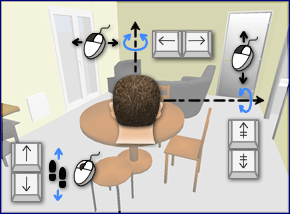
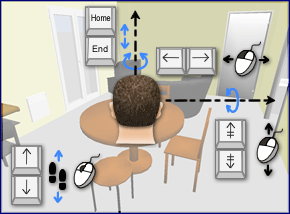
Added eyes elevation indicator
git-svn-id: https://svn.code.sf.net/p/sweethome3d/code/trunk@2312 03e323e1-6c6c-46a5-9f71-c4ce5d8c6204

diff --git a/com/eteks/sweethome3d/viewcontroller/resources/help/fr/editing3DView.html b/com/eteks/sweethome3d/viewcontroller/resources/help/fr/editing3DView.html
@@ -38,27 +38,37 @@
 	      <td>Visite virtuelle</td>
 	      </tr>
 	    </table>	 
-		<p>Quand la <i>Vue a&eacute;rienne</i> est s&eacute;lectionn&eacute;e, la vue 3D affiche votre logement en 3D vu de haut.
-		  Dans ce mode, le d&eacute;placement de la souris vers la gauche ou la droite en maintenant  son bouton
-		  gauche enfonc&eacute; fait tourner
-		  le logement autour d'un axe vertical positionn&eacute; au centre du logement&nbsp;; le d&eacute;placement de la souris
-		  en avant ou en arri&egrave;re en maintenant  son bouton gauche enfonc&eacute; fait tourner le logement
-		  autour d'un axe horizontal&nbsp;;
-	  la rotation de la roue de la souris permet de zoomer en avant ou en arri&egrave;re dans la vue 3D. <br>
-	  Quand la <i>Visite virtuelle</i> est s&eacute;lectionn&eacute;e, la vue 3D affiche votre logement en
-	  3D vue du point de vue d'un visiteur virtuel. Dans ce mode, le d&eacute;placement de la souris vers la gauche ou
-	  la droite  fait tourner le corps du visiteur vers la gauche ou la droite&nbsp;;
-	  le d&eacute;placement
-	  de la souris en avant ou en arri&egrave;re  fait tourner
-	  la t&ecirc;te du visteur vers le haut ou vers le bas&nbsp;; la rotation de la roue
-	  de la souris fait avancer ou reculer le visiteur.	  <br>
-		  Dans les deux modes, les touches <i>fl&egrave;che gauche</i> et <i>fl&egrave;che droite</i> ont le m&ecirc;me effet que les mouvements lat&eacute;raux de
-		  la souris ; les touches <i>page pr&eacute;c&eacute;dente</i> et <i>page suivante</i> ont le m&ecirc;me effet que les mouvements de la souris en avant
-		  ou en arri&egrave;re&nbsp;;
-	  les touches <i>fl&egrave;che haut</i> et <i>fl&egrave;che bas</i> ont le m&ecirc;me effet que la roue de la souris.                                                                                                                                                                                                                                                                                                                                                                                                                                                                                                                                                                                                                                                                                                                                                                                                                                                                                                                                                                                                                                       </p>
-		<p>Quand la <i>Visite virtuelle</i> est s&eacute;lectionn&eacute;e, un visiteur virtuel vu de haut est aussi dessin&eacute; dans
-		  le plan du logement. Sa position et son angle sont mis &agrave; jour simultan&eacute;ment dans le plan et la vue
-		  3D &agrave; chaque mouvement du visiteur. Ce visiteur virtuel est entour&eacute; par trois indicateurs.</p>
+		<p>Quand la <i>Vue a&eacute;rienne</i> est s&eacute;lectionn&eacute;e, 
+          la vue 3D affiche votre logement en 3D vu de haut. Dans ce mode, le 
+          d&eacute;placement de la souris vers la gauche ou la droite en maintenant 
+          son bouton gauche enfonc&eacute; fait tourner le logement autour d'un 
+          axe vertical positionn&eacute; au centre du logement&nbsp;; le d&eacute;placement 
+          de la souris en avant ou en arri&egrave;re en maintenant son bouton 
+          gauche enfonc&eacute; fait tourner le logement autour d'un axe horizontal&nbsp;; 
+          la rotation de la roue de la souris permet de zoomer en avant ou en 
+          arri&egrave;re dans la vue 3D. <br>
+          Quand la <i>Visite virtuelle</i> est s&eacute;lectionn&eacute;e, la 
+          vue 3D affiche votre logement en 3D vue du point de vue d'un visiteur 
+          virtuel. Dans ce mode, le d&eacute;placement de la souris vers la gauche 
+          ou la droite fait tourner le corps du visiteur vers la gauche ou la 
+          droite&nbsp;; le d&eacute;placement de la souris en avant ou en arri&egrave;re 
+          fait tourner la t&ecirc;te du visteur vers le haut ou vers le bas&nbsp;; 
+          la rotation de la roue de la souris fait avancer ou reculer le visiteur.	
+          <br>
+          Dans les deux modes, les touches <i>fl&egrave;che gauche</i> et <i>fl&egrave;che 
+          droite</i> ont le m&ecirc;me effet que les mouvements lat&eacute;raux 
+          de la souris ; les touches <i>page pr&eacute;c&eacute;dente</i> et <i>page 
+          suivante</i> ont le m&ecirc;me effet que les mouvements de la souris 
+          en avant ou en arri&egrave;re&nbsp;; les touches <i>fl&egrave;che haut</i> 
+          et <i>fl&egrave;che bas</i> ont le m&ecirc;me effet que la roue de la 
+          souris. Dans le mode <i>Visite virtuelle</i>, vous pouvez aussi utiliser 
+          les touches <i>home</i> et <i>end</i> pour monter ou descendre en hauteur 
+          le point de vue du visiteur.</p>
+		<p>Quand la <i>Visite virtuelle</i> est s&eacute;lectionn&eacute;e, un 
+          visiteur virtuel vu de haut est aussi dessin&eacute; dans le plan du 
+          logement. Sa position et son angle sont mis &agrave; jour simultan&eacute;ment 
+          dans le plan et la vue 3D &agrave; chaque mouvement du visiteur. Ce 
+          visiteur virtuel est entour&eacute; par quatre indicateurs.</p>
 		<p align="center"><img src="../images/virtualVisitorIndicators.png" width="80" height="80"></p></td>
 	</tr>
 </table>
@@ -87,6 +97,14 @@
                 faire tourner le corps du visiteur vers la gauche ou vers la droite.</p>
             </td>
           </tr>
+		   <tr valign="top">
+            <td nowrap><p>4.</p>
+            </td>
+            <td><p>L'indicateur d'&eacute;l&eacute;vation des yeux montre le point 
+                  que vous pouvez glisser-d&eacute;poser pour monter ou descendre 
+                  le point de vue du visiteur.</p>
+            </td>
+          </tr>
         </table>
         </td>
     </tr>
@@ -94,11 +112,15 @@
 </div>
 <table width="100%" border="0" cellspacing="0" cellpadding="3">
   <tr>
-    <td><p>Quand le pointeur de la souris est sur l'une des &eacute;paules du visiteur, celui-ci change d'aspect pour
-       indiquer que vous pouvez glisser-d&eacute;poser ce point pour modifier l'angle de la t&ecirc;te ou du corps du visiteur.
-        Pendant que vous appuyez sur le bouton de la souris, une info-bulle indique la valeur de l'angle modifi&eacute;.<br>
-        Vous pouvez modifier aussi la position du visiteur virtuel &agrave; partir du plan&nbsp;:
-        glissez-d&eacute;posez le, ou s&eacute;lectionnez le et appuyez sur les  fl&egrave;ches du clavier. </p>
+    <td><p>Quand le pointeur de la souris est sur l'une des &eacute;paules ou 
+          dans le dos du visiteur, celui-ci change d'aspect pour indiquer que 
+          vous pouvez glisser-d&eacute;poser ce point pour modifier l'angle de 
+          la t&ecirc;te du visiteur, l'angle de son corps ou l'&eacute;l&eacute;vation 
+          de son point de vue. Pendant que vous appuyez sur le bouton de la souris, 
+          une info-bulle indique la valeur de l'angle modifi&eacute;.<br>
+          Vous pouvez modifier aussi la position du visiteur virtuel &agrave; 
+          partir du plan&nbsp;: glissez-d&eacute;posez le, ou s&eacute;lectionnez 
+          le et appuyez sur les fl&egrave;ches du clavier. </p>
         <p>D'autres attributs de la vue  3D peuvent &ecirc;tre modifi&eacute;s en choisissant <i>Vue
             3D &gt; Modifier...</i>.</p>
         <p align="center"><img src="images/editing3DView.png" width="399" height="214"></p>

diff --git a/com/eteks/sweethome3d/viewcontroller/resources/help/en/editing3DView.html b/com/eteks/sweethome3d/viewcontroller/resources/help/en/editing3DView.html
@@ -38,23 +38,30 @@
 	      <td>Virtual visit</td>
 	      </tr>
 	    </table>	 
-		<p>When <i>Aerial view</i> is selected, the 3D view displays your home  in 3 dimensions seen from a top point of view.
-		  In this mode, moving the mouse to the left or to the right with its left button pressed makes the home turn around
-		  a vertical axis located at home
-	  center&nbsp;; moving the mouse forward or backward with its left button pressed makes the home turn around an horizontal
-	  axis&nbsp;;
-	  rolling the mouse wheel zooms in or out in the 3D view. <br>
-	  When <i>Virtual visit </i> is selected, the 3D view displays your home
-	  in 3 dimensions seen from the point of view of a virtual visitor. In this mode, moving the mouse to the left or to
-	  the right with its left button pressed makes the visitor body turn to the left or to the right&nbsp;;
-		  moving the mouse forward or backward with its left button pressed makes the visitor head turn up or down&nbsp;;
-		  rolling the mouse wheel makes the visitor move backward or forward. <br>
-		  In both modes, the <i>left arrow</i> and <i>right arrow</i> keys have the same effect as mouse lateral moves  ; <i>page up</i> and <i>page
-		  down</i> keys have the same effect as mouse moves forward and backward&nbsp;; <i>up arrow</i> and <i>down
-		  arrow</i> keys have the same effect as mouse wheel.</p>
-		<p>When <i>Virtual visit </i> is selected, a virtual visitor seen from top is also drawn in the home plan. Its location
-		  and its angle is updated simultaneously 
-	   in the plan and 3D view with each move of the visitor. This virtual visitor is surrounded by  three  indicators.</p>
+		<p>When <i>Aerial view</i> is selected, the 3D view displays your home 
+          in 3 dimensions seen from a top point of view. In this mode, moving 
+          the mouse to the left or to the right with its left button pressed makes 
+          the home turn around a vertical axis located at home center&nbsp;; moving 
+          the mouse forward or backward with its left button pressed makes the 
+          home turn around an horizontal axis&nbsp;; rolling the mouse wheel zooms 
+          in or out in the 3D view. <br>
+          When <i>Virtual visit </i> is selected, the 3D view displays your home 
+          in 3 dimensions seen from the point of view of a virtual visitor. In 
+          this mode, moving the mouse to the left or to the right with its left 
+          button pressed makes the visitor body turn to the left or to the right&nbsp;; 
+          moving the mouse forward or backward with its left button pressed makes 
+          the visitor head turn up or down&nbsp;; rolling the mouse wheel makes 
+          the visitor move backward or forward. <br>
+          In both modes, the <i>left arrow</i> and <i>right arrow</i> keys have 
+          the same effect as mouse lateral moves ; <i>page up</i> and <i>page 
+          down</i> keys have the same effect as mouse moves forward and backward&nbsp;; 
+          <i>up arrow</i> and <i>down arrow</i> keys have the same effect as mouse 
+          wheel. In <i>Virtual visit </i>mode, you can also use the <i>home</i> 
+          and <i>end</i> keys to move up or down the visitor's point of view.</p>
+		<p>When <i>Virtual visit </i> is selected, a virtual visitor seen from 
+          top is also drawn in the home plan. Its location and its angle is updated 
+          simultaneously in the plan and 3D view with each move of the visitor. 
+          This virtual visitor is surrounded by four indicators.</p>
 		<p align="center"><img src="../images/virtualVisitorIndicators.png" width="80" height="80"></p></td>
 	</tr>
 </table>
@@ -83,6 +90,13 @@
                 or to the right.</p>
             </td>
           </tr>
+          <tr valign="top">
+            <td nowrap><p>4.</p>
+            </td>
+            <td><p>The eyes elevation indicator shows the point you can drag to 
+                  move up or down the visitor's point of view.</p>
+            </td>
+          </tr>
         </table>
         </td>
     </tr>
@@ -90,13 +104,14 @@
 </div>
 <table width="100%" border="0" cellspacing="0" cellpadding="3">
   <tr>
-    <td><p>When the mouse pointer is upon one of the  visitor shoulder, it changes to indicate you
-        can drag and drop that point to change the head or body angle of the visitor. While you press the mouse
-        button,
-        a tooltip
-        shows the value of the edited angle.<br>
-        You may also change change the location of the virtual visitor from the home plan: drag and drop it, or select
-        it and press the keyboard arrows. </p>
+    <td><p>When the mouse pointer is upon one of the visitor shoulders or in its 
+          back, it changes to indicate you can drag and drop that point to change 
+          the head angle of the visitor, its body angle or the elevation of its 
+          point of view. While you press the mouse button, a tooltip shows the 
+          value of the edited angle.<br>
+          You may also change change the location of the virtual visitor from 
+          the home plan: drag and drop it, or select it and press the keyboard 
+          arrows. </p>
         <p>Other attributes of the 3D view may be edited  by choosing <i>3D
           view &gt; Modify...</i>.</p>
         <p align="center"><img src="images/editing3DView.png" width="347" height="214"></p>

diff --git a/com/eteks/sweethome3d/swing/PlanComponent.java b/com/eteks/sweethome3d/swing/PlanComponent.java
@@ -243,6 +243,7 @@ public class PlanComponent extends JComponent implements PlanView, Scrollable, P
   private Map<Content, BufferedImage> floorTextureImagesCache;
   private Map<HomePieceOfFurniture, PieceOfFurnitureTopViewIcon> furnitureTopViewIconsCache;
 
+  private static final Shape       POINT_INDICATOR;
   private static final GeneralPath FURNITURE_ROTATION_INDICATOR;
   private static final GeneralPath FURNITURE_RESIZE_INDICATOR;
   private static final GeneralPath FURNITURE_ELEVATION_INDICATOR;
@@ -254,6 +255,7 @@ public class PlanComponent extends JComponent implements PlanView, Scrollable, P
   private static final GeneralPath WALL_AND_LINE_RESIZE_INDICATOR;
   private static final Shape       CAMERA_YAW_ROTATION_INDICATOR;
   private static final GeneralPath CAMERA_PITCH_ROTATION_INDICATOR;
+  private static final GeneralPath CAMERA_ELEVATION_INDICATOR;
   private static final Shape       CAMERA_BODY;
   private static final Shape       CAMERA_HEAD;  
   private static final GeneralPath DIMENSION_LINE_END;  
@@ -266,10 +268,12 @@ public class PlanComponent extends JComponent implements PlanView, Scrollable, P
   private static final float       BORDER_STROKE_WIDTH = 1f;
 
   static {
+    POINT_INDICATOR = new Ellipse2D.Float(-1.5f, -1.5f, 3, 3);
+    
     // Create a path that draws an round arrow used as a rotation indicator 
     // at top left point of a piece of furniture
     FURNITURE_ROTATION_INDICATOR = new GeneralPath();
-    FURNITURE_ROTATION_INDICATOR.append(new Ellipse2D.Float(-1.5f, -1.5f, 3, 3), false);
+    FURNITURE_ROTATION_INDICATOR.append(POINT_INDICATOR, false);
     FURNITURE_ROTATION_INDICATOR.append(new Arc2D.Float(-8, -8, 16, 16, 45, 180, Arc2D.OPEN), false);
     FURNITURE_ROTATION_INDICATOR.moveTo(2.66f, -5.66f);
     FURNITURE_ROTATION_INDICATOR.lineTo(5.66f, -5.66f);
@@ -348,7 +352,7 @@ public class PlanComponent extends JComponent implements PlanView, Scrollable, P
     
     // Create a path used as pitch rotation indicator for the camera
     CAMERA_PITCH_ROTATION_INDICATOR = new GeneralPath();
-    CAMERA_PITCH_ROTATION_INDICATOR.append(new Ellipse2D.Float(-1.5f, -1.5f, 3, 3), false);
+    CAMERA_PITCH_ROTATION_INDICATOR.append(POINT_INDICATOR, false);
     CAMERA_PITCH_ROTATION_INDICATOR.moveTo(4.5f, 0);
     CAMERA_PITCH_ROTATION_INDICATOR.lineTo(5.2f, 0);
     CAMERA_PITCH_ROTATION_INDICATOR.moveTo(9f, 0);
@@ -358,6 +362,17 @@ public class PlanComponent extends JComponent implements PlanView, Scrollable, P
     CAMERA_PITCH_ROTATION_INDICATOR.lineTo(12.3f, 2f);
     CAMERA_PITCH_ROTATION_INDICATOR.lineTo(12.8f, 5.8f);
     
+    // Create a path that draws a line with one arrow as an elevation indicator
+    // at the back of the camera
+    CAMERA_ELEVATION_INDICATOR = new GeneralPath();
+    CAMERA_ELEVATION_INDICATOR.moveTo(0, -4); // Vertical line
+    CAMERA_ELEVATION_INDICATOR.lineTo(0, 4);
+    CAMERA_ELEVATION_INDICATOR.moveTo(-2.5f, 4);    // Bottom line
+    CAMERA_ELEVATION_INDICATOR.lineTo(2.5f, 4);
+    CAMERA_ELEVATION_INDICATOR.moveTo(-1.2f, 0.5f); // Bottom arrow
+    CAMERA_ELEVATION_INDICATOR.lineTo(0, 3.5f);
+    CAMERA_ELEVATION_INDICATOR.lineTo(1.2f, 0.5f);
+
     // Create a path used to draw the camera 
     // This path looks like a human being seen from top that fits in one cm wide square 
     GeneralPath cameraBodyAreaPath = new GeneralPath();
@@ -3310,6 +3325,15 @@ public class PlanComponent extends JComponent implements PlanView, Scrollable, P
       g2D.scale(scaleInverse, scaleInverse);
       g2D.rotate(camera.getYaw());
       g2D.draw(CAMERA_PITCH_ROTATION_INDICATOR);
+      g2D.setTransform(previousTransform);
+
+      // Draw elevation indicator at middle of first and second point of camera 
+      g2D.translate((cameraPoints [0][0] + cameraPoints [1][0]) / 2, 
+          (cameraPoints [0][1] + cameraPoints [1][1]) / 2);
+      g2D.scale(scaleInverse, scaleInverse);
+      g2D.draw(POINT_INDICATOR);
+      g2D.translate(Math.sin(camera.getYaw()) * 8, -Math.cos(camera.getYaw()) * 8);
+      g2D.draw(CAMERA_ELEVATION_INDICATOR);
       g2D.setTransform(previousTransform);
     }
   }

diff --git a/com/eteks/sweethome3d/swing/HomeComponent3D.java b/com/eteks/sweethome3d/swing/HomeComponent3D.java
@@ -129,7 +129,7 @@ import com.sun.j3d.utils.universe.ViewingPlatform;
 public class HomeComponent3D extends JComponent implements com.eteks.sweethome3d.viewcontroller.View, Printable {
   private enum ActionType {MOVE_CAMERA_FORWARD, MOVE_CAMERA_FAST_FORWARD, MOVE_CAMERA_BACKWARD, MOVE_CAMERA_FAST_BACKWARD,  
       ROTATE_CAMERA_YAW_LEFT, ROTATE_CAMERA_YAW_FAST_LEFT, ROTATE_CAMERA_YAW_RIGHT, ROTATE_CAMERA_YAW_FAST_RIGHT, 
-      ROTATE_CAMERA_PITCH_UP, ROTATE_CAMERA_PITCH_DOWN}
+      ROTATE_CAMERA_PITCH_UP, ROTATE_CAMERA_PITCH_DOWN, ELEVATE_CAMERA_UP, ELEVATE_CAMERA_DOWN}
   
   private final Home                               home;
   private final boolean                            displayShadowOnFloor;
@@ -879,6 +879,8 @@ public class HomeComponent3D extends JComponent implements com.eteks.sweethome3d
     inputMap.put(KeyStroke.getKeyStroke("D"), ActionType.ROTATE_CAMERA_YAW_FAST_RIGHT);
     inputMap.put(KeyStroke.getKeyStroke("PAGE_UP"), ActionType.ROTATE_CAMERA_PITCH_UP);
     inputMap.put(KeyStroke.getKeyStroke("PAGE_DOWN"), ActionType.ROTATE_CAMERA_PITCH_DOWN);
+    inputMap.put(KeyStroke.getKeyStroke("HOME"), ActionType.ELEVATE_CAMERA_UP);
+    inputMap.put(KeyStroke.getKeyStroke("END"), ActionType.ELEVATE_CAMERA_DOWN);
   }
  
   /**
@@ -895,6 +897,18 @@ public class HomeComponent3D extends JComponent implements com.eteks.sweethome3d
 
       public void actionPerformed(ActionEvent e) {
         controller.moveCamera(this.delta);
+      }
+    }
+    // Elevate camera action mapped to arrow keys 
+    class ElevateCameraAction extends AbstractAction {
+      private final float delta;
+      
+      public ElevateCameraAction(float delta) {
+        this.delta = delta;
+      }
+
+      public void actionPerformed(ActionEvent e) {
+        controller.elevateCamera(this.delta);
       }
     }
     // Rotate camera yaw action mapped to arrow keys 
@@ -926,6 +940,8 @@ public class HomeComponent3D extends JComponent implements com.eteks.sweethome3d
     actionMap.put(ActionType.MOVE_CAMERA_FAST_FORWARD, new MoveCameraAction(10));
     actionMap.put(ActionType.MOVE_CAMERA_BACKWARD, new MoveCameraAction(-1));
     actionMap.put(ActionType.MOVE_CAMERA_FAST_BACKWARD, new MoveCameraAction(-10));
+    actionMap.put(ActionType.ELEVATE_CAMERA_DOWN, new ElevateCameraAction(-2.5f));
+    actionMap.put(ActionType.ELEVATE_CAMERA_UP, new ElevateCameraAction(2.5f));
     actionMap.put(ActionType.ROTATE_CAMERA_YAW_LEFT, new RotateCameraYawAction(-(float)Math.PI / 180));
     actionMap.put(ActionType.ROTATE_CAMERA_YAW_FAST_LEFT, new RotateCameraYawAction(-(float)Math.PI / 18));
     actionMap.put(ActionType.ROTATE_CAMERA_YAW_RIGHT, new RotateCameraYawAction((float)Math.PI / 180));

diff --git a/com/eteks/sweethome3d/viewcontroller/HomeController3D.java b/com/eteks/sweethome3d/viewcontroller/HomeController3D.java
@@ -138,6 +138,13 @@ public class HomeController3D implements Controller {
   }
 
   /**
+   * Elevates home camera of <code>delta</code>.
+   */
+  public void elevateCamera(float delta) {
+    this.cameraState.elevateCamera(delta);
+  }
+
+  /**
    * Rotates home camera yaw angle of <code>delta</code> radians.
    */
   public void rotateCameraYaw(float delta) {
@@ -178,6 +185,9 @@ public class HomeController3D implements Controller {
     public void moveCamera(float delta) {
     }
 
+    public void elevateCamera(float delta) {     
+    }
+    
     public void rotateCameraYaw(float delta) {
     }
 
@@ -398,6 +408,16 @@ public class HomeController3D implements Controller {
     public void moveCamera(float delta) {
       this.observerCamera.setX(this.observerCamera.getX() - (float)Math.sin(this.observerCamera.getYaw()) * delta);
       this.observerCamera.setY(this.observerCamera.getY() + (float)Math.cos(this.observerCamera.getYaw()) * delta);
+      // Select observer camera for user feedback
+      home.setSelectedItems(Arrays.asList(new Selectable [] {this.observerCamera}));
+    }
+    
+    @Override
+    public void elevateCamera(float delta) {
+      float newElevation = this.observerCamera.getZ() + delta; 
+      newElevation = Math.max(newElevation, 10 * 14 / 15);
+      newElevation = Math.min(newElevation, 1000 * 14 / 15);
+      this.observerCamera.setZ(newElevation);
       // Select observer camera for user feedback
       home.setSelectedItems(Arrays.asList(new Selectable [] {this.observerCamera}));
     }
